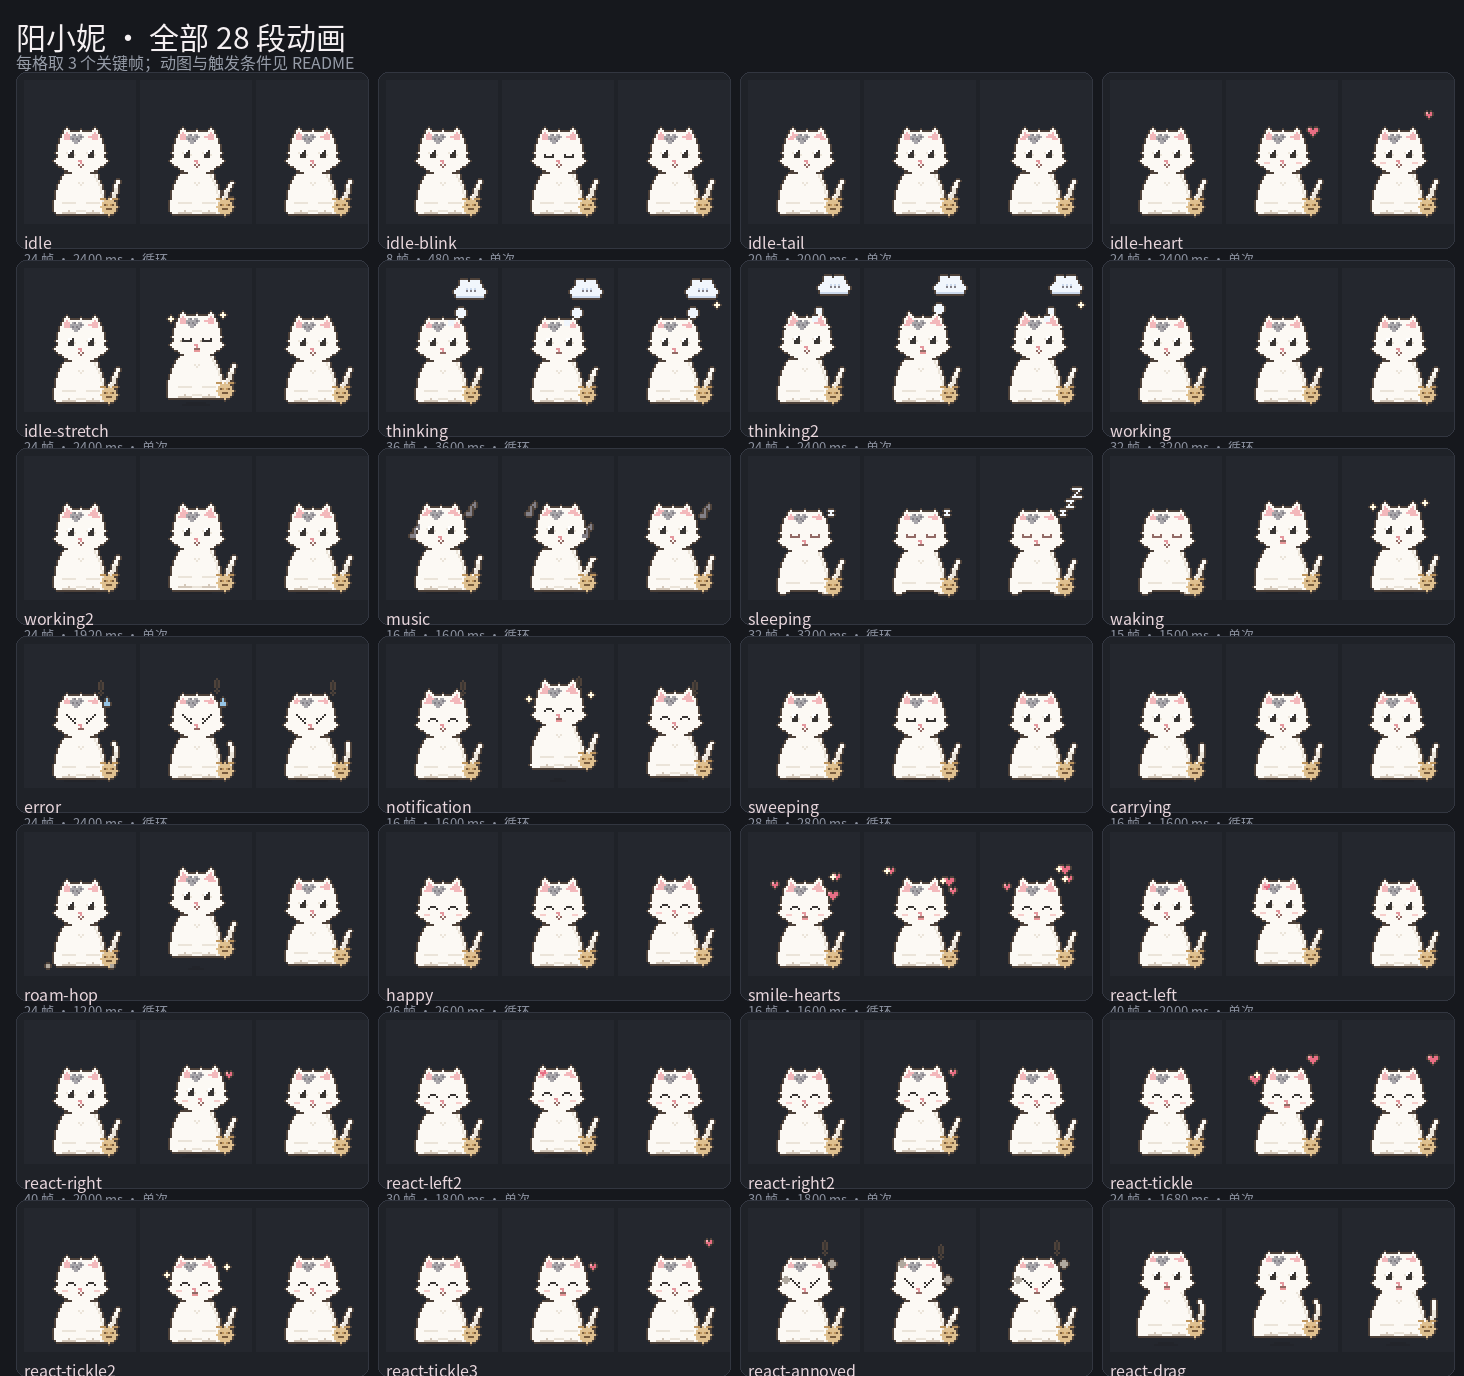
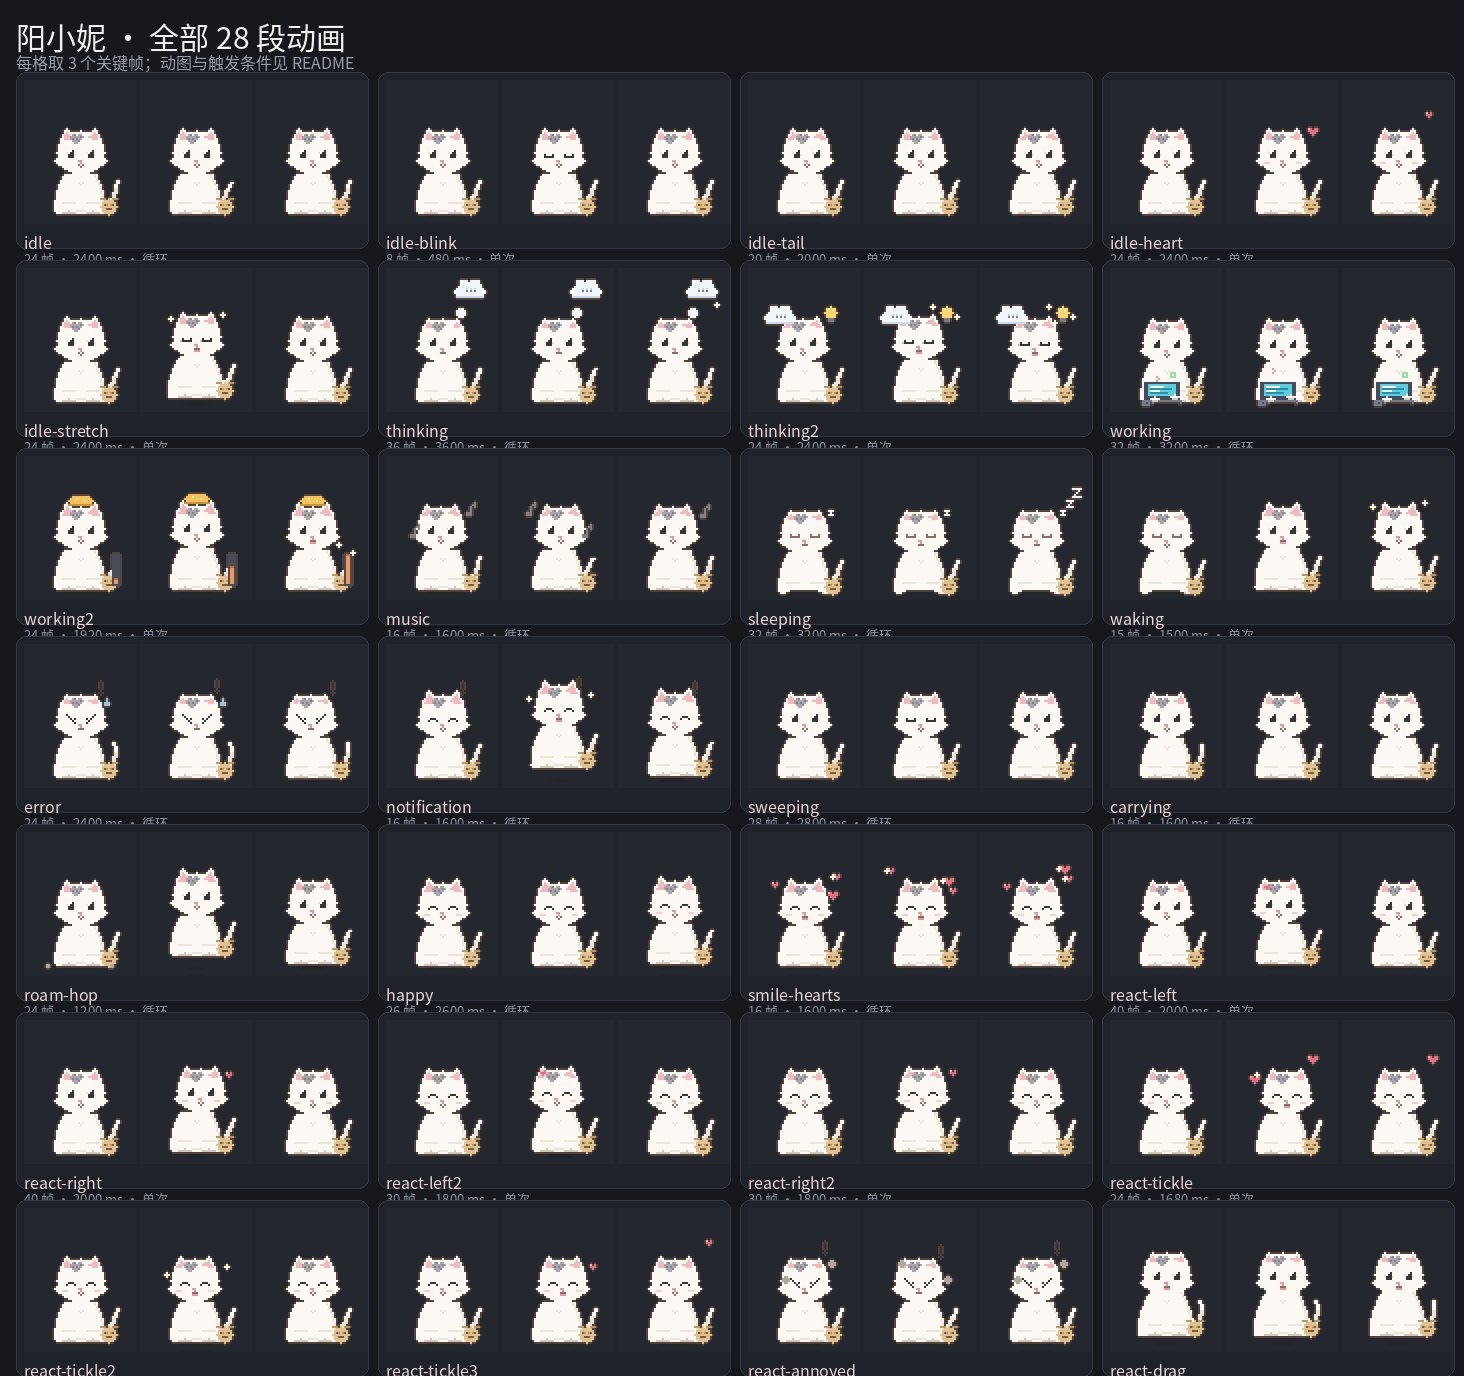
feat: distinct working / thinking variants modelled on Deepy's typing & building
- working: cat sits behind a small glowing laptop, paws drumming on the keys,
  code glyphs float up from the screen, occasional glance up (Deepy 'typing')
- working2: hard hat + a construction progress bar that fills up (Deepy 'building')
- thinking2: eyes closed, thought cloud on the left, light bulb switching on
  with sparkles - visibly different from thinking
- new props: laptop, paw_small, glyph1-3, helmet, bulb, bar(height)
- bump to v0.1.3

diff --git a/tools/sprite.py b/tools/sprite.py
@@ -30,6 +30,19 @@ PALETTE = {
     'dust':      (176, 168, 158),
     'cloud':     (241, 246, 252),
     'cloud_sh':  (204, 217, 236),
+    'metal':     (70, 76, 90),
+    'metal_lt':  (116, 124, 142),
+    'screen':    (92, 206, 226),
+    'screen_dk': (46, 142, 168),
+    'code':      (238, 251, 255),
+    'code_pink': (236, 142, 172),
+    'code_green':(150, 224, 164),
+    'helmet':    (247, 194, 88),
+    'helmet_dk': (206, 148, 56),
+    'bulb':      (255, 214, 110),
+    'bulb_lt':   (255, 246, 196),
+    'progress':  (245, 150, 86),
+    'progress_dk': (198, 108, 58),
 }
 NAMES = list(PALETTE)
 IDX = {n: i + 1 for i, n in enumerate(NAMES)}
@@ -229,6 +242,9 @@ PROPS['puff'] = _rows_from_circles(3, 3, [(1.5, 1.5, 1.55)])
 PROPS['puff2'] = _rows_from_circles(5, 5, [(2.5, 2.5, 2.45)])
 PROPS['steam'] = _rows_from_circles(4, 4, [(2.0, 2.0, 1.95)])
 PROPS['z3'] = ["XXX", ".X.", "XXX"]
+PROPS['glyph1'] = ["X..", ".X.", "X.."]      # </
+PROPS['glyph2'] = ["XXX", "X.X", "XXX"]      # {} box-ish bracket
+PROPS['glyph3'] = ["X.X", "X.X", "XXX"]      # 01
 PROPS['z4'] = ["XXXX", "..X.", ".X..", "XXXX"]
 PROPS['z5'] = ["XXXXX", "...X.", "..X..", ".X...", "XXXXX"]
 
@@ -236,10 +252,48 @@ PROP_COLORS = {
     'heart': 'heart', 'heart_s': 'heart', 'spark': 'spark', 'excl': 'eye',
     'qm': 'eye', 'sweat': 'sweat', 'note': 'patch_dk', 'dust': 'dust',
     'cloud': 'cloud', 'puff': 'cloud', 'puff2': 'cloud',
+    'laptop': 'metal', 'paw_small': 'fur', 'helmet': 'helmet', 'bulb': 'bulb',
+    'bar': 'metal_lt', 'glyph1': 'code_pink', 'glyph2': 'code_green', 'glyph3': 'code',
     'z3': 'cloud', 'z4': 'cloud', 'z5': 'cloud', 'steam': 'dust',
 }
 
-def draw_prop(c, kind, x, y):
+def draw_prop(c, kind, x, y, arg=None):
+    x, y = int(x), int(y)
+    if kind == 'laptop':
+        # lid with a glowing screen + keyboard in front of the cat's lap
+        c.rect(x, y, x + 17, y + 8, 'metal')
+        c.rect(x + 2, y + 1, x + 15, y + 6, 'screen')
+        c.hline(x + 3, x + 9, y + 2, 'code')
+        c.hline(x + 3, x + 13, y + 3, 'screen_dk')
+        c.hline(x + 3, x + 7, y + 4, 'code')
+        c.hline(x + 3, x + 11, y + 5, 'screen_dk')
+        c.rect(x - 1, y + 9, x + 18, y + 11, 'metal_lt')
+        for kx in range(x + 1, x + 18, 2):
+            c.px(kx, y + 10, 'metal')
+        return
+    if kind == 'bulb':
+        c.ellipse(x + 3, y + 3, 3, 3, 'bulb')
+        c.rect(x + 2, y + 6, x + 4, y + 7, 'metal_lt')
+        c.px(x + 2, y + 1, 'bulb_lt'); c.px(x + 4, y + 2, 'bulb_lt')
+        return
+    if kind == 'helmet':
+        for dy in range(0, 4):
+            half = 6 - abs(dy - 2)
+            c.hline(x + 6 - half, x + 6 + half, y + dy, 'helmet')
+        c.hline(x, x + 12, y + 4, 'helmet_dk')
+        c.px(x + 4, y + 1, 'bulb_lt'); c.px(x + 8, y + 2, 'bulb_lt')
+        return
+    if kind == 'bar':
+        height = 14 if arg is None else max(0, min(14, int(arg)))
+        c.rect(x, y, x + 3, y + 15, 'metal')
+        for i in range(height):
+            c.hline(x + 1, x + 2, y + 14 - i, 'progress')
+        c.hline(x + 1, x + 2, y + 14 - height, 'progress_dk')
+        return
+    if kind == 'paw_small':
+        c.ellipse(x + 1, y + 1, 2, 1, 'fur')
+        c.hline(x, x + 2, y + 2, 'deep')
+        return
     rows = PROPS[kind]
     col = PROP_COLORS[kind]
     for dy, row in enumerate(rows):
@@ -273,8 +327,10 @@ def render(pose):
         n = max(1, int(round(zzz * 3)))
         for kind, x, y in marks[:n]:
             draw_prop(c, kind, x, y)
-    for (kind, x, y) in props:
-        draw_prop(c, kind, int(round(x)), int(round(y)) + YOFF)
+    for prop in props:
+        kind, x, y = prop[0], prop[1], prop[2]
+        arg = prop[3] if len(prop) > 3 else None
+        draw_prop(c, kind, int(round(x)), int(round(y)) + YOFF, arg)
     lift = pose.get('lift', 0.0) + pose.get('body_dy', 0) * -0.5
     if lift < 8:
         w = max(4, int(round(8 - lift * 0.8)))

diff --git a/tools/build_pack.py b/tools/build_pack.py
@@ -130,38 +130,52 @@ def anims():
     add('thinking', 36, 100, True, f_thinking)
 
     def f_thinking2(t):
-        # Bonus pose: looks up at its own cloud, ears perked, one "oh" mouth.
-        bob = 0.8 * math.sin(TAU * t)
-        props = [('cloud', 34, -13 + bob)]
-        for ph in (0.0, 0.33):
-            u = (t + ph) % 1.0
-            if u < 0.7:
-                props.append(('puff2' if u > 0.35 else 'puff', 32 + 5 * u, 8 - 12 * u))
-        if t > 0.6:
-            props.append(('spark', 49, 1 + 2 * math.sin(TAU * t)))
-        return dict(head_dy=-1.2, head_dx=1, ears=1, eye='open',
-                    mouth='open' if 0.15 < t < 0.7 else 'smile', props=props)
+        # Bonus: "a-ha" - eyes closed, head tilted, the cloud on the left and a
+        # light bulb switching on at the right (Deepy's thinking cloud, but an
+        # idea instead of a second cloud).
+        props = [('cloud', 7, 2), ('bulb', 38, 3)]
+        if t > 0.35:
+            props += [('spark', 33, 2), ('spark', 45, 7)]
+        if t > 0.7:
+            props += [('spark', 36, 10)]
+        return dict(eye='closed' if t > 0.15 else 'open', head_dx=-1,
+                    head_dy=(-1 if 0.3 < t < 0.85 else 0), ears=0,
+                    mouth='open' if t > 0.2 else 'smile', props=props)
     add('thinking2', 24, 100, False, f_thinking2)
 
     def f_working(t):
-        # Paw drumming, with a "glance at the screen" beat every other cycle so
-        # the long working state keeps changing without looking random.
-        paw = 1 if math.sin(TAU * 4 * t) > 0 else 0
-        look = 0.55 < t < 0.72
-        return dict(front_paws=paw, lift=-0.5 if paw else 0.0,
-                    head_dy=(-1.2 if look else -0.3 * paw),
-                    head_dx=(1 if look else 0),
-                    ears=(1 if look else 0),
+        # Cat sits behind a little laptop: screen glowing, paws drumming on the
+        # keyboard, code glyphs floating up from the screen (Deepy's "typing"
+        # beat, adapted to the cat). Every cycle it glances up at the screen.
+        beat = math.sin(TAU * 4 * t)
+        paw_l = 1 if beat > 0 else 0
+        paw_r = 1 - paw_l
+        look = 0.58 < t < 0.74
+        props = [('laptop', 17, 41),
+                 ('paw_small', 21, 48 - paw_l), ('paw_small', 31, 48 - paw_r)]
+        for kind, ph, x0 in (('glyph1', 0.0, 23), ('glyph2', 0.33, 30), ('glyph3', 0.66, 35)):
+            u = (t + ph) % 1.0
+            if u < 0.7:
+                props.append((kind, x0, 38 - 7 * u))
+        if look:
+            props.append(('spark', 39, 35))
+        return dict(head_dy=(0.0 if look else 1.2), head_dx=(1 if look else 0),
+                    ears=(1 if look else 0), eye='open',
                     mouth='open' if look else 'smile',
-                    tail=1.2 * math.sin(TAU * t))
+                    tail=1.0 * math.sin(TAU * t), props=props)
     add('working', 32, 100, True, f_working)
 
     def f_working2(t):
-        # Bonus pose: fast drumming, ears forward, head down - "heads down" mode.
-        paw = 1 if math.sin(TAU * 8 * t) > 0 else 0
-        return dict(front_paws=paw, lift=-0.4 if paw else 0.0, head_dy=1.0,
-                    ears=1, eye='open', mouth='smile',
-                    tail=0.8 * math.sin(TAU * 2 * t))
+        # Bonus: hard hat + a construction-style progress bar filling up
+        # (Deepy's "building" beat).
+        hd = -1 if 0.2 < t < 0.8 else 0
+        fill = 2 + 12 * t
+        props = [('helmet', 22, 4 + hd), ('bar', 44, 33, fill)]
+        if fill > 12:
+            props += [('spark', 40, 27), ('spark', 47, 31)]
+        return dict(head_dy=hd, ears=1, eye='open',
+                    mouth='open' if fill > 12 else 'smile',
+                    tail=2.0 * math.sin(TAU * t), props=props)
     add('working2', 24, 80, False, f_working2)
 
     def f_music(t):

diff --git a/README.md b/README.md
@@ -36,7 +36,9 @@
 - **待机**：呼吸、尾巴轻摆；空闲时随机眨眼、左右张望、冒爱心、伸懒腰
 - **注意**：蹦跳眯眼笑 + 爱心和星星，35% 概率「爱心爆发」彩蛋
 - **思考**：歪头压耳，头顶飘**思考云朵**（云里三个点，小泡泡一朵朵往上冒）；3.6 秒一段，中间会抬头看云、眨眼
-- **干活**：前爪交替敲打 + 抬头看屏幕的节拍；3.2 秒一段
+- **思考彩蛋**：眯眼歪头，左边云朵、右边**灯泡亮起**配闪光（3.6 秒里的「啊哈」）
+- **干活**：面前一台发光的小显示器，**前爪在键盘上敲打，代码字符从屏幕上飘出来**；3.2 秒一段，中间抬头看一眼
+- **干活彩蛋**：戴上**安全帽**，旁边的**进度条**一路上涨、涨满冒星星（参考鲸鱼的 building）
 - **多任务 / 出错 / 通知 / 压缩 / 搬运 / 游走 / 唤醒 / 睡觉**：各有对应动作与道具（汗滴、感叹号、音符、灰尘、Zzz）
 - **点左 / 点右**：2.0 秒的歪头反应，随机带星星或小爱心（左右各两种变体）
 - **挠痒**：三种随机反应——爱心连发 / 星星雨 / 害羞甩头（1.5–1.7 秒）
@@ -84,9 +86,9 @@
 | 动画 | 触发条件 | 动图 |
 | --- | --- | --- |
 | `thinking` | 等模型 / 推理 / 重试时（长任务里最常见） | <img src="screenshots/anim/thinking.gif" width="112" alt="thinking"> |
-| `thinking2` | 思考彩蛋：进入思考状态时 25% 抽一次 | <img src="screenshots/anim/thinking2.gif" width="112" alt="thinking2"> |
-| `working` | 工具运行、回复流式输出时 | <img src="screenshots/anim/working.gif" width="112" alt="working"> |
-| `working2` | 干活彩蛋：进入干活状态时 20% 抽一次 | <img src="screenshots/anim/working2.gif" width="112" alt="working2"> |
+| `thinking2` | 思考彩蛋：眯眼 + 灯泡亮起，进入思考状态时 25% 抽一次 | <img src="screenshots/anim/thinking2.gif" width="112" alt="thinking2"> |
+| `working` | 工具运行、回复流式输出时：小显示器 + 敲键盘 + 代码字符 | <img src="screenshots/anim/working.gif" width="112" alt="working"> |
+| `working2` | 干活彩蛋：安全帽 + 进度条涨满，进入干活状态时 20% 抽一次 | <img src="screenshots/anim/working2.gif" width="112" alt="working2"> |
 | `music` | 多任务：同时有多个会话在跑 | <img src="screenshots/anim/music.gif" width="112" alt="music"> |
 | `happy` | 注意：一整轮结束且 1.5 秒内没有新轮次（约 5.2 秒） | <img src="screenshots/anim/happy.gif" width="112" alt="happy"> |
 | `smile-hearts` | 注意彩蛋：进入注意状态时 35% 抽一次 | <img src="screenshots/anim/smile-hearts.gif" width="112" alt="smile-hearts"> |

diff --git a/docs/design-notes.md b/docs/design-notes.md
@@ -24,6 +24,8 @@ App 里「标准」档 `k = round(30 × dpr ÷ contentBox.h)`，dpr 2.75 时 k=2
 
 - 动作参数：`body_dy`、`head_dx/dy`、`lift`、`squash`、`tail`、`ears`、`front_paws`、`eye`、`mouth`
 - 道具：`props` 里放 `heart / heart_s / spark / excl / qm / sweat / note / dust / cloud / puff / z3-z5`
+  以及 `laptop`（带发光屏幕的小显示器）、`paw_small`（键盘上的小爪）、`glyph1-3`（飘起来的代码字符）、
+  `helmet`（安全帽）、`bulb`（灯泡）、`bar`（进度条，可带填充高度参数）
 - 时间统一按参考宠物的量级：点按 2.0 s（40 帧 × 50 ms）、挠痒 1.68 s、状态循环 2.4~3.2 s
 
 ### 时长基准（对照 dsh-go 自带的 Deepy 小鲸鱼 / 鲸娘）
@@ -37,6 +39,8 @@ App 里「标准」档 `k = round(30 × dpr ÷ contentBox.h)`，dpr 2.75 时 k=2
 | 待机 | 24f / 2400ms | 48f / 2400ms | 21f / 5280ms |
 | 思考（长任务） | 36f / 3600ms | 48f / 2400ms | 17f / 3400ms |
 | 干活（长任务） | 32f / 3200ms | 48f / 2400ms | 14f / 2340ms |
+| 干活彩蛋（安全帽+进度条） | 24f / 1920ms | 48f / 2400ms（building） | 24f / 2520ms（building） |
+| 思考彩蛋（灯泡） | 24f / 2400ms | 16f / 3400ms（thinking） | 17f / 3400ms（thinking） |
 | 睡觉 | 32f / 3200ms | 64f / 3200ms | 6f / 1980ms |
 
 ## 状态映射

diff --git a/CHANGELOG.md b/CHANGELOG.md
@@ -2,6 +2,20 @@
 
 版本号遵循语义化版本；宠物包的行为变化（动画增删、时长、状态映射）都会记录在这里。
 
+## v0.1.3 — 2026-11-20
+
+### 动画
+
+- `working` 重做：不再只是「爪子轻轻动」，改成面前一台发光小显示器 + 键盘，
+  前爪交替敲打，代码字符从屏幕上飘起来，期间抬头看屏幕（参考 Deepy 的 typing）。
+- `working2` 重做：戴安全帽，旁边一根进度条随动画涨满、满格冒星星（参考 Deepy 的 building）。
+- `thinking2` 重做：眯眼歪头，左边云朵、右边灯泡亮起 + 闪光，和 `thinking`（睁眼 + 云朵冒泡）明显区分。
+- 新增道具：`laptop`、`paw_small`、`glyph1-3`、`helmet`、`bulb`、`bar`（可带高度参数）。
+
+### 文档
+
+- README 的动效说明与「全部动画一览」同步更新，`make gallery` 重新生成全部 GIF。
+
 ## v0.1.2 — 2026-11-20
 
 ### 文档
